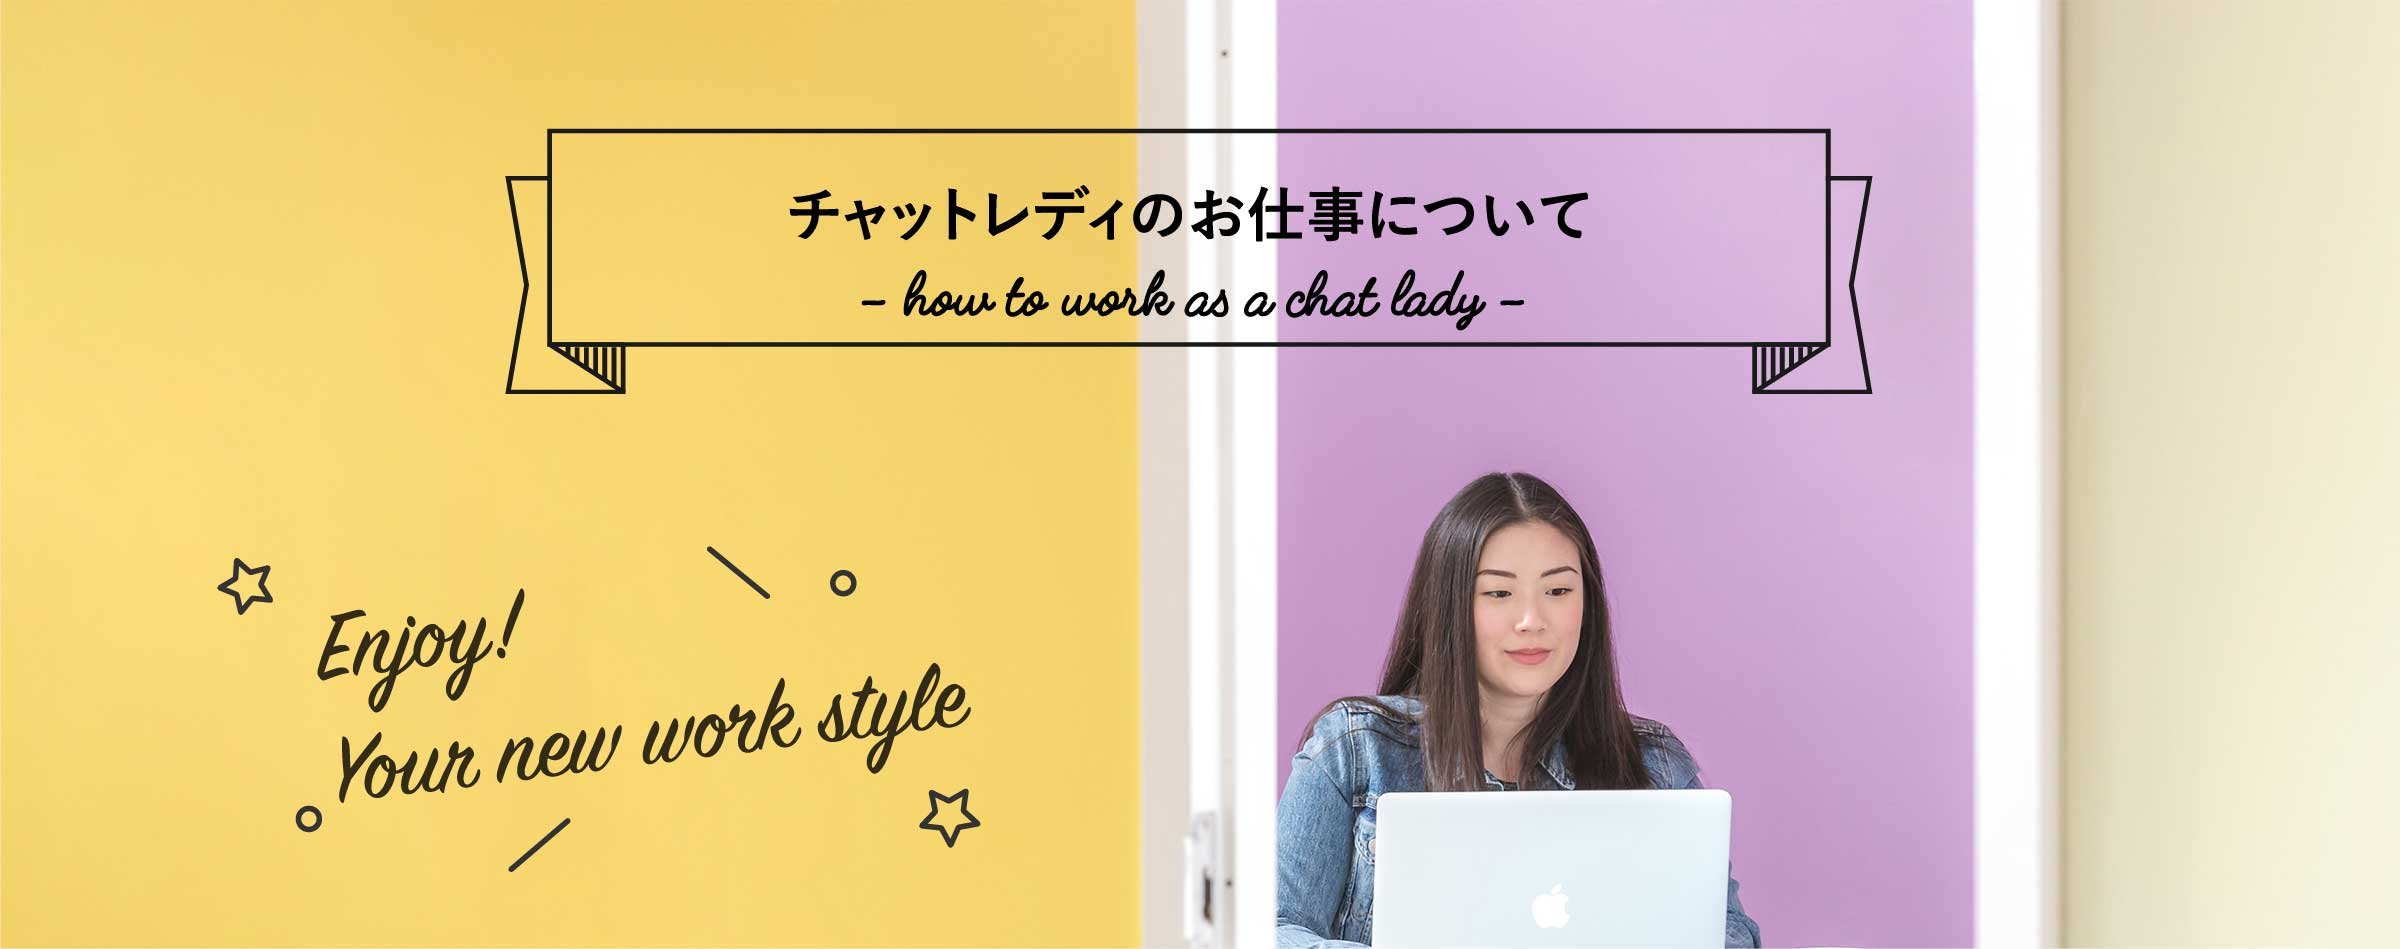
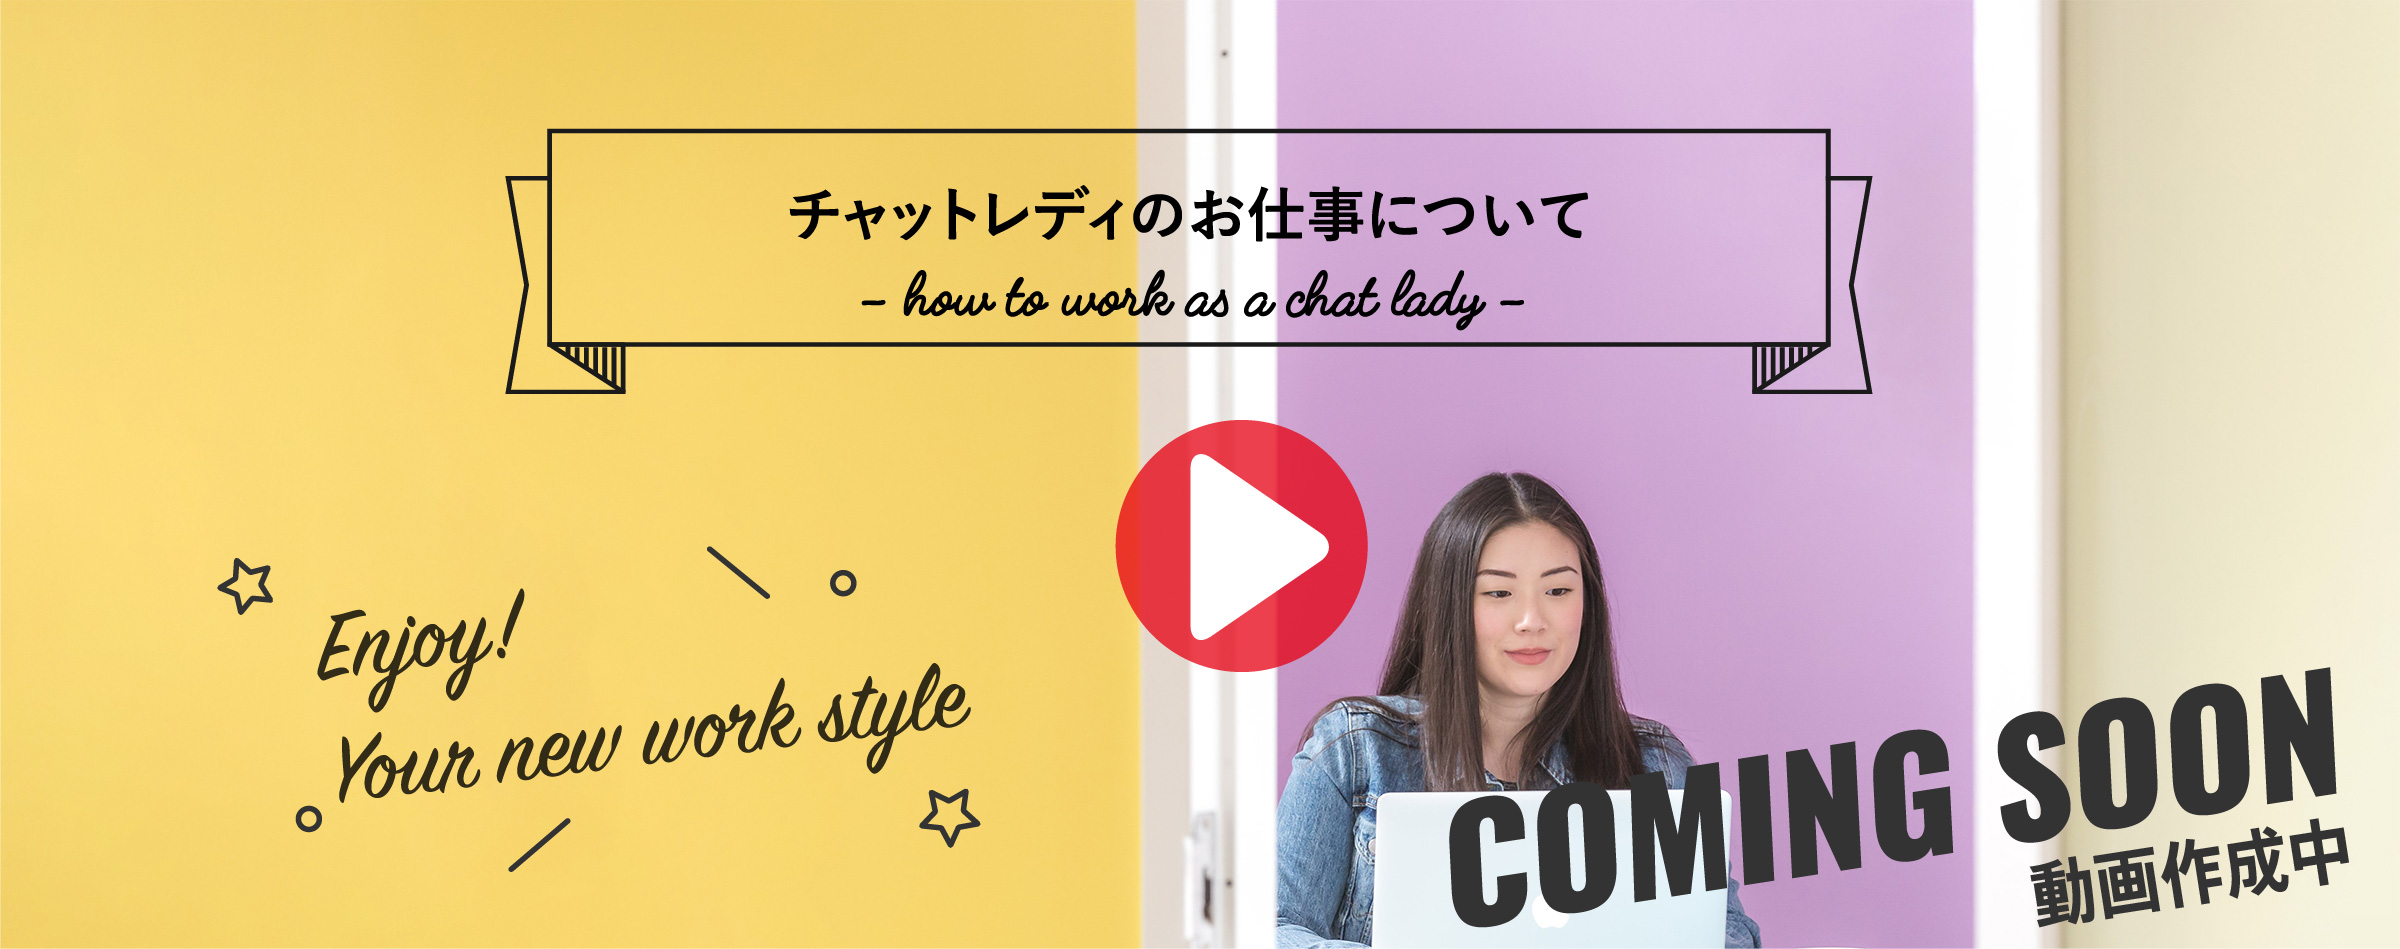
update a comming soon

diff --git a/index.html b/index.html
@@ -153,6 +153,11 @@
                     <div class="col-12 col-md-10 offset-md-1 col-lg-8 offset-lg-2">
                         <p class="bk-black center">こんなことを思っていませんか？</p>
                         <ul class="tbl">
+                            <li class="imgswrap">
+                                <div class="office-imgs">
+                                    <img src="./res/comming-soon-img.jpg" />
+                                </div>
+                            </li>
                             <li>
                                 <img src="./res/check.svg" alt="チェックマーク" />
                                 <span>空き時間を有意義に使いたい</span>
@@ -216,6 +221,9 @@
                         <span>#04</span>
                         <h3>&ldquo; 空いている時間で自由に稼げる &rdquo;</h3>
                         <p>チャットレディのお仕事は、<strong>シフトや出勤ノルマ等一切ありません。</strong>プライベート最優先で空いた時間にお仕事できます。月に稼ぎたい分だけお仕事すればいいので、お仕事もプライベートも賢く充実させましょう！</p>
+                    </div>
+                    <div class="office-imgs">
+                        <img src="./res/comming-soon-img.jpg" />
                     </div>
                 </div>
             </div>
@@ -342,7 +350,7 @@
 
 
             <div class="row office-imgs">
-                <div><img src="./res/office-img.jpg" /></div>
+                <div><img src="./res/comming-soon-img.jpg" /></div>
             </div>
 
             <div class="row custome_dott_wrap">
@@ -543,7 +551,7 @@
             </div>
             <div class="row cms-video mt-16">
                 <div class="col-12 col-md-10 offset-md-1">
-                    <img src="res/comming-soon-img.jpg" alt="comming soon for the video" />
+                    <img src="res/comming-soon-video.jpg" alt="comming soon for the video" />
                     <p class="txt">- ご応募からの流れ -</p>
                 </div>
             </div>

diff --git a/css/style.css b/css/style.css
@@ -926,6 +926,12 @@ section{
 #dear li{
     margin-top: 8px;
 }
+#dear li.imgswrap{
+    margin-left: -16px;
+    margin-right: -16px;
+    margin-top:-16px;
+    margin-bottom:16px;
+}
 #dear li img{
     margin-right: 8px;
 }
@@ -933,11 +939,18 @@ section{
     .tbl{
         padding-left: 140px;
     }
+    #dear li.imgswrap{
+        margin-left: -140px;
+    }
 }
 @media screen and (min-width:993px) {
     .tbl{
         padding-left: 180px;
         padding-right: 10px;
+    }
+    #dear li.imgswrap{
+        margin-left: -180px;
+        margin-right: -10px;
     }
 }
 
@@ -976,6 +989,9 @@ section{
     border-bottom:2px solid #F15A24;
     margin-bottom: 16px;
     color:#F15A24;
+}
+.office-imgs img{
+    width: 100%;
 }
 @media screen and (min-width:767px) and ( max-width:992px) {
 }
@@ -1189,14 +1205,11 @@ section{
     left: 0;
     right: 0;
 }
-.office-imgs{
+#office .office-imgs{
     margin-right: -15px;
     margin-left: -15px;
     margin-top: 24px;
-    /* width: 100%; */
-}
-.office-imgs div img{
-    width: 100%;
+    margin-bottom: -16px;
 }
 @media screen and (min-width:767px){
     #office .custome_dott_wrap{
@@ -1224,6 +1237,9 @@ section{
     #office .custome_dott_wrap{
         margin-top: 32px;
         margin-bottom: -40px;
+    }
+    #office .office-imgs{
+        margin-bottom: -32px;
     }
 }
 
